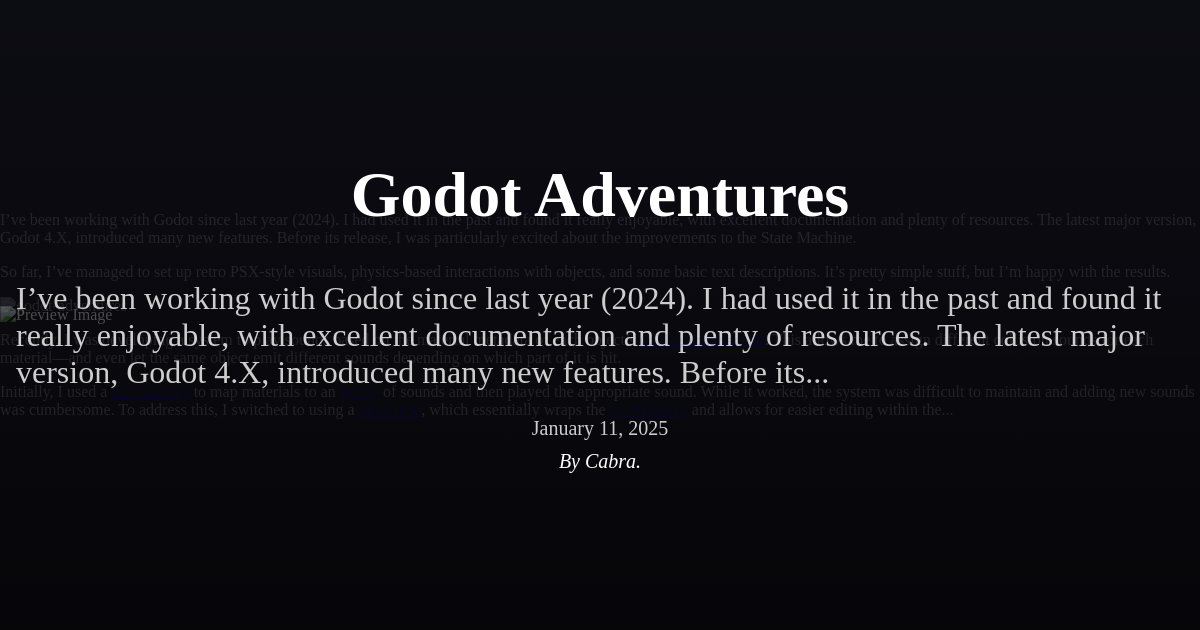
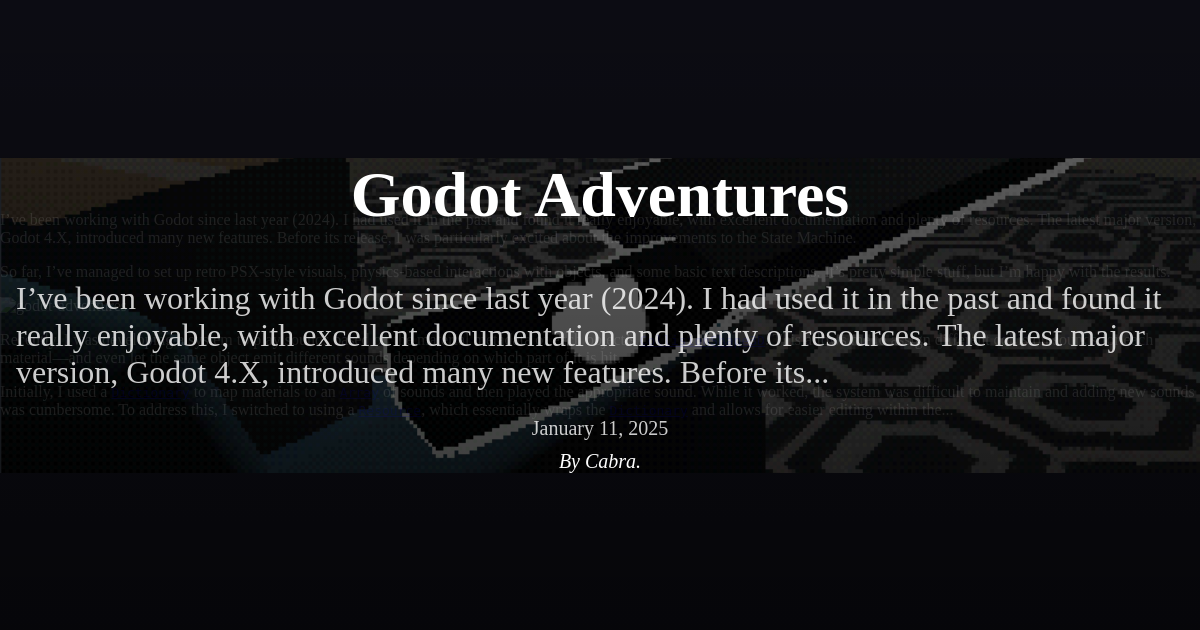
fixed previews

diff --git a/_layouts/preview.html b/_layouts/preview.html
@@ -105,7 +105,7 @@
   <!-- should cover full width -->
   {% assign first_image = page.content | extract_first_image %}
   {% if first_image %}
-    <img class="first-image" src="{{ first_image | relative_url }}" alt="Preview Image">
+    <img class="first-image" src="{{ first_image | absolute_url }}" alt="Preview Image">
   {% endif %}
   <div class="overlay"></div>
 

diff --git a/.github/workflows/generate_previews.js b/.github/workflows/generate_previews.js
@@ -27,7 +27,7 @@ fs.mkdirSync(outputDir, { recursive: true });
 
         console.log(`Rendering ${filePath} to ${outputFilePath}`);
 
-        await page.goto(filePath, { waitUntil: 'networkidle0' });
+        await page.goto(filePath, { waitUntil: 'load' });
         await page.screenshot({ path: outputFilePath, fullPage: true });
     }
 

diff --git a/_posts/2025-08-24-sera-que-é-só-burrice-mesmo-?.md b/_posts/2025-08-24-sera-que-é-só-burrice-mesmo-?.md
@@ -2,12 +2,12 @@
 layout: post
 category: politica
 lang: pt-br
-description: Ou será que não?
+description: Como a esquerda está repetindo o erro que ajudou Hitler chegar ao poder e como Olavo explorou essa fraqueza estratégica para eleger Bolsonaro.
 ---
 
 Não deve ser nenhuma novidade para vocês que me acompanham nas redes que nutro um recente interesse por política em geral. Eu nunca considerei que entendia muito bem sobre o assunto, mas sempre me considerei uma espécie de centrista à esquerda, justamente por reconhecer as contribuições dos governos petistas na minha formação, sem as quais eu provavelmente nunca teria me formado na USP (literalmente, minha família jamais teria tido condições financeiras para tal). 
 
-Sempre tentei entender a politica através de uma análise de certa forma racional, herança da formação acadêmica em áreas exatas, e sempre tentei evitar defender com unhas e dentes o que eu considero não **entender** direito, justamente por princípio de *parcimônia*. No entanto, sempre entendi que era importante entender em algum momento da minha vida (uma vez que ela estivesse melhor resolvida).
+Sempre tentei entender a política através de uma análise de certa forma racional, herança da formação acadêmica em áreas exatas, e sempre tentei evitar defender com unhas e dentes o que eu considero não **entender** direito, justamente por princípio de *parcimônia*. No entanto, sempre entendi que era importante entender em algum momento da minha vida (uma vez que ela estivesse melhor resolvida).
 
 ![burro][burro]
 
@@ -15,26 +15,28 @@ Sempre tentei entender a politica através de uma análise de certa forma racion
 
 Nesta época eu já tinha feito o primeiro ano de Física, tinha passado os primeiros perrengues, perdido alguns amigos que desistiram do curso, feito amigos novos. Apesar dos pesares, riamos dos memes da internet, entre eles apareciam vez ou outra memes do `Bolsonaro`.
  
-Para mim, que era uma pessoa alheia a política nesse nível de detalhe, era uma figura completamente desconhecida, e o humor sempre se deu pela caricatura e absurdismo dos memes.
+Para mim, que era uma pessoa alheia à política nesse nível de detalhe, era uma figura completamente desconhecida, e o humor sempre se deu pela caricatura e absurdismo dos memes.
 
-Qual não foi minha surpresa em ver que as pessoas estavam realmente considerando colocar aquele palhaço que eu via em memes como presidente do país. Eu achava que não tinha me alienado aos detalhes como o *impeachment* da Dilma e o governo Temer, acusações de corrupção do PT e prisão do Lula, no entanto, não conseguia conceber aquela candidatura, era uma aberração ilógica. Eu até tentei convencer, através da internet, meus familiares e amigos no *facebook*, mas nada adiantava. Eles repetiam *ad eternum* os mesmos "arjumentos": a esquerda é o demônio na terra, o comunismo ronda o mundo, o PT é comunista, o Lula é ladrão, o Bolsonaro tem propostas excelentes: castração química para estupradores e etc.
+Qual não foi minha surpresa em ver que as pessoas estavam realmente considerando colocar aquele palhaço que eu via em memes como presidente do país. Eu achava que não tinha me alienado aos detalhes como o *impeachment* da Dilma e o governo Temer, acusações de corrupção do PT e prisão do Lula, no entanto, não conseguia conceber aquela candidatura, era uma aberração ilógica. Eu até tentei convencer, através da internet, meus familiares e amigos no *Facebook*, mas nada adiantava. Eles repetiam *ad eternum* os mesmos "argumentos": a esquerda é o demônio na terra, o comunismo ronda o mundo, o PT é comunista, o Lula é ladrão, o `Bolsonaro` tem propostas excelentes: castração química para estupradores e etc.
 
-Eu simplesmente não entendia, como pode alguém achar que aquilo que se desenhava no horizonte era viável. Eu tentava apelar para a moralidade mas isso não adiantava a moral deles já estava alinhada, eu tentava apelar para a racionalidade, mas apareciam linhas de raciocínio terríveis, uma pior que a outra.
+Eu simplesmente não entendia, como pode alguém achar que aquilo que se desenhava no horizonte era viável. Eu tentava apelar para a moralidade mas isso não adiantava — a moral deles já estava alinhada, eu tentava apelar para a racionalidade, mas apareciam linhas de raciocínio terríveis, uma pior que a outra.
 
 Todas as respostas embutidas em imagens facilmente compartilháveis.
 
-(Sim, até hoje me dá uma vontade de gritar com todo mundo daquela época EU AVISEI, NÃO AVISEI???? mas não quero voltar aquela merda nunca mais!)
+(Sim, até hoje me dá uma vontade de gritar com todo mundo daquela época **EU AVISEI, NÃO AVISEI????** mas não quero voltar aquela merda nunca mais!)
 
 Inclusive, eu tive a súbita revelação de que pessoas da minha família que considerava pessoas razoáveis, abraçando pautas e relativizando os discursos extremistas do `Bolsonaro`.
 
 E agora a pior parte, eu não ia conseguir voltar para minha cidade, que ficava a cerca de 20 horas de estrada e uma quantia de dinheiro que na época para mim era bastante dinheiro (de certo modo, ainda é). Não sabia que tinha como transferir o título e já tinha perdido o prazo (inclusive, *jovem*, [vê se não pastela!](https://www.tse.jus.br/servicos-eleitorais/titulo-eleitoral/autoatendimento-eleitoral/autoatendimento-eleitoral-titulo-net))
 
 De qualquer maneira, o estrago já estava feito no primeiro turno **46,03%** para `Bolsonaro` contra **29,28%** de Fernando Haddad. Ninguém solta a mão de ninguém, Fascistas não passarão, Ele não, Prefiro Ciro e etc. Nada adiantou, o segundo turno entre o PT, que estava com a reputação terrível devida à conjuntura (Lava Jato, Prisão do Lula e etc) e o `Bolsonaro` já estava decidido.
+
 ### Passaram, Deu ele sim
 
 Todo mundo tentava processar o que tinha acontecido, dedos eram apontados e todos tentavam entender o que tinha acontecido com a esquerda e o Brasil, mas ninguém conseguia entender muito bem.
 
-Para o meu desespero, as coisas desandaram legal: Vieram reprovações em Mecânica Clássica e Eletromagnetismo, mais e mais pessoas desistiam do curso e a pior notícia do Governo era a seguinte. A esperança em ter um governo que era minimamente razoável esvaia-se cada vez mais. Por motivos óbvios, eu precisei me focar cada vez mais nas disciplinas e tentei me alienar outra vez da politica, felizmente `Bolsonaro` não conseguia fazer tudo aquilo que ele tinha prometido. Como tinha reprovado pela primeira vez, coisa que eu tentava evitar a todo custo, eu resolvi relaxar um pouco, tinham martelado tanto que na universidade só tinha vagabundo e maconheiro que eu resolvi ter uma vida social mais ativa: comecei a tentar ir nas festinhas da faculdade com os amigos.
+Para o meu desespero, as coisas desandaram legal: Vieram reprovações em Mecânica Clássica e Eletromagnetismo, mais e mais pessoas desistiam do curso e a pior notícia do Governo era a seguinte. A esperança em ter um governo que era minimamente razoável esvaía-se cada vez mais. Por motivos óbvios, eu precisei me focar cada vez mais nas disciplinas e tentei me alienar outra vez da política, felizmente `Bolsonaro` não conseguia fazer tudo aquilo que ele tinha prometido. Como tinha reprovado pela primeira vez, coisa que eu tentava evitar a todo custo, eu resolvi relaxar um pouco, tinham martelado tanto que na universidade só tinha vagabundo e maconheiro que eu resolvi ter uma vida social mais ativa: comecei a tentar ir nas festinhas da faculdade com os amigos.
+
 ### Quando tudo parecia que não ia ficar tão ruim.
 
 Veio a notícia de que tinha um certo vírus por aí, ninguém sabia muito bem o que era para fazer. As recomendações que surgiam eram meio difusas, inicialmente acharam que íamos só precisar usar máscara durante as aulas e era isso.
@@ -42,6 +44,7 @@ Veio a notícia de que tinha um certo vírus por aí, ninguém sabia muito bem o
 Ledo engano, as notícias de uma doença respiratória se espalhava e eu que morava no alojamento recebi a notícia de que as aulas seriam remotas. Já que fiquei com receio de pegar um vírus ao qual não existia sequer informação sobre sintomas direito, e eu tinha pessoas vulneráveis na minha casa, resolvi ficar. Durante a COVID eu me isolei dentro da universidade mesmo, em especial dentro do quarto.
 
 Neste momento, eu voltei a acompanhar as notícias sobre as ações do Governo.
+
 ### E foi um horror
 
 Além de se isentar da responsabilidade, a atuação do Governo era desastrosa. Primeiro desqualificavam as soluções propostas pelos especialistas, ignoravam a curva de mortes que aumentava a cada dia e o risco da pane no sistema de saúde.
@@ -51,6 +54,7 @@ Tentavam a todo custo manter a máquina da economia funcionando, custasse a vida
 Quando surgia alguma fagulha de esperança, frente ao desenvolvimento em tempo recorde da vacina, disseminavam discursos anti-vacinação e teorias conspiratórias.
 
 Foram [700 mil mortes](https://www.gov.br/saude/pt-br/assuntos/noticias/2023/marco/brasil-chega-a-marca-de-700-mil-mortes-por-covid-19).
+
 ### Pós-2022
 
 Após finalmente conseguir me vacinar, em múltiplas doses, as coisas pareciam melhorar. Finalmente ia poder rever minha família, que sobreviveu a todo esse inferno e principalmente **IA PODER VOTAR NA PORRA DO LULA** e ainda tive que convencer pessoas da minha família que votariam no `Bolsonaro` a **SIMPLESMENTE NÃO VOTAR** (*pois é, mesmo após isso tudo ainda tive que bater o pé, gritar e espernear, deixar bem claro o que estava em jogo era o meu futuro, uma grande chantagem emocional da qual me orgulho É MUITO*)
@@ -58,6 +62,7 @@ Após finalmente conseguir me vacinar, em múltiplas doses, as coisas pareciam m
 A frente ampla pela democracia finalmente deu certo, entrou o `Alckmin`, entrou `Simone Tebet`, entrou a porra toda nesse caralho de governo, mas pelo menos essa corja maldita ia sair da política.
 
 Tudo parecia que estaria mais ou menos arrumadinho na minha vida, entraria no mestrado, tentaria um concurso e bom poderia descansar um pouco.
+
 ### Arrumadinho
 
 Não vou entrar em muitos detalhes pessoais, mas o Governo já meteu logo um ajuste no valor do **SALÁRIO** que chamam de bolsa de mestrado.
@@ -73,6 +78,7 @@ Em vez de escrever a dissertação (é esse o nome?) estou aqui desabafando num 
 O dinheiro da reserva financeira que fiz da bolsa vai se esgotando, minha perspectiva de passar no doutorado não me parece muito boa e as perspectivas começam a ruir.
 
 Começo a me preparar psicologicamente para os piores cenários, e tenho ficado um pouco mais pessimista sobre eles. 
+
 ### A ilíada do judiciário
 
 Sempre usei o YouTube com o histórico desligado, depois do bloqueio do X acabei criando uma persona nova na internet nas redes (inclusive, no [bsky](https://bsky.app/profile/cabra.lat)) e comecei assistindo alguns vídeos recomendados sobre matemática, física, música e *línguas*.
@@ -82,9 +88,10 @@ Por um acaso do algoritmo, encontrei o [Felipe Durante](https://www.youtube.com/
 *Durante* suas lives onde costuma reagir a vídeos de figuras bastante caricatas da direita brasileira, os famosos *doidinhos de bairro*, conheci também o panteão dos *webcomunistas*, dos quais sempre tive um certo receio básico que vem do anticomunismo dominante. 
 
 No entanto, vi que são pessoas comuns, carismáticas e que **ao contrário** do que é muito difundido pela direita, sabem muito mais sobre economia do que os *papagaios de direita* fazem parecer.
+
 ### Sobre as ideias do barbudo
 
-Marx, o mais famoso dos três porquinhos, é justamente quem possui um entendimento sobre como *dis*funciona o capitalismo. Não li os calhamaços d'O Capital ainda, nem metade dos textos que existem, porém tive uma boa exposição das ideias através do [Marx: uma introdução, de Jorge Grespan](https://www.boitempoeditorial.com.br/produto/marx-uma-introducao-152696), na qual é possível obter um apanhado geral dos conceitos que são fundamentais da sua *crítica* ao capitalismo. 
+`Marx`, o mais famoso dos três porquinhos, é justamente quem possui um entendimento sobre como *dis*funciona o capitalismo. Não li os calhamaços d'O Capital ainda, nem metade dos textos que existem, porém tive uma boa exposição das ideias através do [Marx: uma introdução, de Jorge Grespan](https://www.boitempoeditorial.com.br/produto/marx-uma-introducao-152696), na qual é possível obter um apanhado geral dos conceitos que são fundamentais da sua *crítica* ao capitalismo. 
 
 Eu gosto muito dessa sequência que é apresentada na série *Mr Robot (2015)*:
 
@@ -110,42 +117,79 @@ O outro personagem pergunta, e qual seria essa verdade?
 
 E eu adoro este momento do filme.
 
-É justamente o que Marx fez muitos anos antes, ao revelar que esse grupo malvado de pessoas, ao contrário do senso comum, NÃO EXISTE.
+É justamente o que `Marx` fez muitos anos antes, ao revelar que esse grupo malvado de pessoas, ao contrário do senso comum, NÃO EXISTE.
 
 Não há coordenação por baixo dos panos, ninguém controla esse sistema e esse é EXATAMENTE o motivo dele quebrar de tempos em tempos.
+
 ### Comunismo, *webcomunismo*
 
-Recentemente, entrei em contato com o conteúdo [Pedro Ivo](https://www.youtube.com/@ateuinforma), que é uma pessoa extremamente carismática e possui divergências com várias teses correntes na esquerda e nas humanas.
+Recentemente, entrei em contato com o conteúdo do [Pedro Ivo](https://www.youtube.com/@ateuinforma), que é uma pessoa extremamente carismática e possui divergências com várias teses correntes na esquerda e nas humanas.
 
 Longe de dominar completamente todas as críticas que ele faz, existem algumas em especial que chamaram minha atenção, o *antipetismo* e o *anti-iluminismo* que povoa a chamada esquerda radical ou revolucionária.
-### Mas não pode criticar?
 
-Encontrei o canal do Ivo, o chamado *ateuinforma* através da *Croezinha*. Na época, eu ainda estava procurando entender as brigas internas dentro da esquerda, as diferentes correntes de pensamento, e claro, dar umas risadas também.
+### "Mas não pode criticar o PT?"
 
-(Aqui elaborarei um pouco como entrei em contato com as teses do Pedro Ivo, basicamente a tese antipetismo é quase auto explicativa, em especial dado meu contexto, mas preciso ter uma dimensão mais exata de como abordar o assunto, afinal "se eu não tivesse crítica ao governo eu compunha a chapa" ou alguma imbecilidade razoável nesse sentido. Em especial, o motivo pelo qual a webcomunada esquece a atual conjuntura ou é desonesta e aceleracionista à esquerda.)
+Encontrei o canal do Ivo, o chamado *ateuinforma*, através da *Croezinha*. Na época, eu ainda estava procurando entender as brigas internas dentro da esquerda, as diferentes correntes de pensamento, e claro, dar umas risadas também.
 
-(A outra faceta, o anti-iluminismo, é ainda mais interessante, é uma crítica contundente ao pós-modernismo e a escola de Frankfurt, ou como a esquerda internacional chegou neste ponto insalubre e o mundo deu esta guinada ao literal fascismo)
+Bom, eu já estava vendo trechos das rinhas entre *doidinhos de bairro* e os *comunistas*. Claramente, em embates intelectuais as personas de esquerda levam a melhor tecnicamente. Porém, como vimos com `Álvaro Borba` em seu embate vexaminoso com *mamãefalei*, não basta apenas possuir o *ethos* (a credibilidade, a experiência, a moral, etc.) — é preciso também dominar o *pathos*, que são basicamente as emoções da audiência.
+
+Foi assim que conheci o `Jones Manoel`, através de seu canal *Farol Brasil*, onde ele se apresenta como uma figura de esquerda crítica. No início, achei interessante sua abordagem, mas logo percebi que se tratava de um militante do PCBR (um racha entre o PCB e a juventude do partido) que disfarçava ataques ao governo Lula como se fossem "críticas necessárias". Suas teses frequentemente igualavam PT e Bolsonaro como sendo "fundamentalmente iguais", exceto talvez no manejo da pandemia, ou tratava figuras como Haddad como "neoliberais disfarçados".
+
+Foi então que o `Pedro Ivo` alertou para o perigo dessa linha de pensamento: ao igualar coisas que são fundamentalmente diferentes, estamos repetindo o erro histórico do **socialfascismo** stalinista. Nos anos 1930, a Terceira Internacional (Comintern) classificou os partidos social-democratas como *socialfascistas*, tratando-os como equivalentes ao nazismo. Essa posição teve consequências catastróficas: impediu que a esquerda se unisse contra Hitler, contribuindo diretamente para o fortalecimento do nazismo na Alemanha.
+
+A crítica do Pedro Ivo é contundente: quando parte da *webcomunada* trata o PT como se fosse igual ao bolsonarismo, ou quando reduz toda a política a uma falsa equivalência entre progressismo e fascismo, está cometendo o mesmo erro histórico. Essa posição não é "crítica", mas sim uma forma de sabotagem política que beneficia exclusivamente a direita extremista.
+
+A lição histórica é clara: reconhecer as diferenças qualitativas entre governos é fundamental para construir estratégias políticas eficazes. Não podemos cair no erro de tratar como equivalentes um governo que implementa políticas sociais e um que promove genocídio durante uma pandemia, como vimos com as 700 mil mortes no Brasil. A verdadeira crítica de esquerda precisa ser capaz de reconhecer avanços e limites sem cair na armadilha do equivalencismo, que historicamente só serviu para fortalecer o fascismo.
+
+### O Aceleracionismo Perigoso da Webcomunada
+
+O que mais me incomoda na *webcomunada* não é apenas a superficialidade de suas críticas, mas sim o aceleracionismo disfarçado de radicalidade. Essa postura, que insiste que "quanto pior, melhor", revela uma desconexão total com a realidade material das pessoas — aquelas 700 mil famílias que perderam entes queridos durante a pandemia não estão interessadas em teorias abstratas sobre "lutar na base do tudo ou nada".
+
+Pedro Ivo chama atenção para como parte da esquerda online caiu num vórtice de autossabotagem política: em nome de uma pureza ideológica inexistente, tratam governos progressistas como se fossem equivalentes ao fascismo. Quando o Jones Manoel do PCBR afirma que Haddad é "neoliberal" ou que PT e Bolsonaro são "fundamentalmente iguais", está repetindo o mesmo erro estratégico que levou ao fortalecimento de Hitler na Alemanha — o socialfascismo stalinista que tratava social-democratas como equivalentes aos nazistas.
+
+### "Se é burguês, não presta."
+
+`Marx`, apesar de ser um crítico radical do capitalismo, nunca rejeitou os avanços das revoluções burguesas — pelo contrário, ele os incorporou em sua própria metodologia. Sua crítica ao capitalismo foi feita **com as ferramentas do Iluminismo**: razão, ciência, busca por verdades objetivas e a ideia de progresso histórico (mesmo que reinterpretado de forma dialética e materialista).
+
+O que o pós-modernismo fez, particularmente em certas vertentes da esquerda, foi justamente **jogar fora o bebê com a água do banho**. Ao rejeitar categorias como "verdade objetiva", "progresso" e "razão universal", criou-se um vácuo teórico que impede uma análise materialista consistente do capitalismo, leva ao relativismo extremo onde "tudo é igual" e neutraliza a capacidade da esquerda de propor alternativas concretas baseadas em evidências.
+
+> A tragédia histórica é que `Marx` usou a melhor tradição do Iluminismo para criticar seus limites no contexto capitalista, enquanto parte da esquerda contemporânea abandonou as ferramentas necessárias para fazer essa crítica de maneira eficaz.
+
+Quando a esquerda começa a tratar `Haddad` como "neoliberal" ou iguala `PT` e `Bolsonaro`, está operando dentro dessa lógica pós-moderna que rejeita a possibilidade de analisar diferenças qualitativas entre regimes políticos — exatamente o oposto da metodologia marxista, que sempre enfatizou a análise concreta de situações concretas.
+
+É por isso que a crítica ao anti-iluminismo é tão importante: sem a confiança na razão e na ciência (que não são perfeitas, mas são nossas melhores ferramentas), a esquerda perde sua capacidade de distinguir entre o que é progressivo e o que é reacionário, repetindo assim os erros históricos do socialfascismo.
+
+Sem perceber, os *webcomunistas* estão minando as bases teóricas necessárias para uma esquerda eficaz e abrindo caminho para o fortalecimento de uma extrema-direita.
+
+Primeiro, há um **problema geracional**: muitos ativistas online cresceram em um período pós-2016 onde a polarização atingiu níveis extremos, e passaram a ver toda política através dessa lente distorcida de "PT versus anti-PT", esquecendo que existem diferenças qualitativas entre um governo que implementa políticas sociais e um que promove genocídio.
+
+Segundo, há um **problema de plataforma**: nas redes sociais, a postura mais radical e aceleracionista gera mais engajamento. Críticas moderadas e matizadas não viralizam como "PT é igual ao Bolsonaro" ou "Lula é mais neoliberal que Bolsonaro". Isso cria um incentivo perverso para que figuras da "webcomunada" adotem posições cada vez mais extremas para ganhar seguidores.
+
+Terceiro, há um **problema teórico**: parte da esquerda abandonou o materialismo histórico em favor de abstrações pós-modernas que negam a possibilidade de progresso real. Se tudo é igualmente ruim, então qualquer governo é indistinguível de um fascista — o que é exatamente o oposto do que `Marx` ensinou sobre analisar as contradições específicas de cada momento histórico.
+
+A tragédia é que essa postura não apenas é intelectualmente desonesta, mas também politicamente suicida. Ao tratar como equivalentes um governo que restabelece o Bolsa Família e um que celebra torturadores, esses "comunistas de internet" estão, sem perceber, fazendo o jogo da direita. Como dizia o próprio Marx: "A história se repete primeiro como tragédia, depois como farsa." O socialfascismo dos anos 1930 foi uma tragédia; vermos sua réplica na "webcomunada" contemporânea é uma farsa trágica.
+
 ### Velho, Fascista e Morto. Era também mentiroso!
 
-Não vou negar que me causou um estranhamento ao ver que o Pedro Ivo, de certa forma, alerta para o fato de que a esquerda ignora e ignorou a figura do Olavo de Carvalho, como sendo apenas um lunático, um _burro_.
+Não vou negar que me causou um estranhamento ao ver que o `Pedro Ivo`, de certa forma, alerta para o fato de que a esquerda ignora e ignorou a figura do `Olavo de Carvalho`, como sendo apenas um lunático, um *burro*.
 
 Até que enfim, YouTube me recomendou um vídeo de um canal aleatório com o título "Dialética \| Olavo de Carvalho". Eu hesitei. Não queria **dar palco** e você deve bem conhecer os discursos que tentam chancelar e domar a lógica das redes através das nossas ações individuais (uma visão de esquerda LIBERAL no mundo, talvez eu entre em detalhes no futuro).
 
-Tomei a decisão de assistir a esse vídeo, nele Olavo de Carvalho estava tratando um assunto: o motivo pelo qual a Esquerda domina nas eleições e a Direita não entende, por não compreender a cabeça dos comunistas.
+Tomei a decisão de assistir a esse vídeo, nele `Olavo de Carvalho` estava tratando um assunto: o motivo pelo qual a Esquerda domina nas eleições e a Direita não entende, por não compreender a cabeça dos comunistas.
 
 O que ouvi me fez ter um verdadeiro momento de *eureka*: Olavo explicava que na visão dele, a direita, por ser positivista e cartesiana, não compreende como a dialética funciona na prática política. Segundo ele, a esquerda ganha eleições justamente por operar com contradições aparentes, por ser "maluca e contraditória", e que a direita deveria aprender a fazer o mesmo. Ele citava exemplos como "o governo russo, sendo cristão ortodoxo, apoia países islâmicos" para ilustrar o que chamava de "lógica dialética" da esquerda.
 
-Foi então que percebi: essa não é uma burrice da direita, mas sim uma estratégia deliberada de construção de narrativas políticas. A extrema direita descobriu que pode operar com contradições explícitas sem se preocupar com coerência lógica - defendendo ditadura enquanto simultaneamente alega que já vivemos sob uma ditadura, por exemplo. E justificam essas contradições chamando-as de "processos dialéticos".
+Foi então que percebi: essa não é uma burrice da direita, mas sim uma estratégia deliberada de construção de narrativas políticas. A extrema direita descobriu que pode operar com contradições explícitas sem se preocupar com coerência lógica — defendendo ditadura enquanto simultaneamente alega que já vivemos sob uma ditadura, por exemplo. E justificam essas contradições chamando-as de "processos dialéticos".
 
 A grande revelação foi entender que essa filosofia aparentemente incoerente, embora seja uma deturpação completa da dialética marxista (que, aliás, nunca funcionou assim), demonstrou ser eficaz na prática política.
 
-Seja por mera coincidência ou não, figuras como Bolsonaro conseguiram mobilizar as pessoas com discursos contraditórios e subiram ao poder - não porque seus seguidores são burros, mas porque essa é exatamente a metodologia política que foi desenvolvida.
+Seja por mera coincidência ou não, figuras como `Bolsonaro` conseguiram mobilizar as pessoas com discursos contraditórios e subiram ao poder — não porque seus seguidores são burros, mas porque essa é exatamente a metodologia política que foi desenvolvida.
 
-Por anos, a esquerda ridicularizou Olavo como um "velho fascista morto e mentiroso" (o que ele de fato é), sem perceber que ele havia identificado e instrumentalizado com precisão uma fraqueza estratégica, a insistência em coerência lógica em um campo político onde a contradição deliberada pode ser mais eficaz. 
+Por anos, a esquerda ridicularizou `Olavo` como um "velho fascista maluco e mentiroso" (o que ele de fato é), sem perceber que ele havia identificado e instrumentalizado com precisão uma fraqueza estratégica, a insistência em coerência lógica em um campo político onde a contradição deliberada pode ser mais eficaz. 
 
-Foi um choque perceber que, mesmo sendo um completo charlatão, ele produziu resultados mensuráveis na política brasileira - e que sua "filosofia de merda", de certa forma, pode ter funcionado.
+Foi um choque perceber que, mesmo sendo um completo charlatão, ele produziu resultados mensuráveis na política brasileira — e que sua "filosofia de merda", de certa forma, pode ter funcionado.
 
-Agora entendo que não se trata simplesmente de burrice ou ignorância, mas de um M.O. político consciente. E é justamente por isso que essa galera o idolatra tanto - não por suas ideias, mas por sua aparente eficácia prática em construir narrativas que ressoam, mesmo quando logicamente incoerentes.
+Agora entendo que não se trata simplesmente de burrice ou ignorância, mas de um M.O. político consciente. E é justamente por isso que essa galera o idolatra tanto — não por suas ideias, mas por sua aparente eficácia prática em construir narrativas que ressoam, mesmo quando logicamente incoerentes.
 
-
+[pedro-ivo]: https://www.youtube.com/@ateuinforma
 [burro]: {{ page.assets }}/imgs/burro.png
